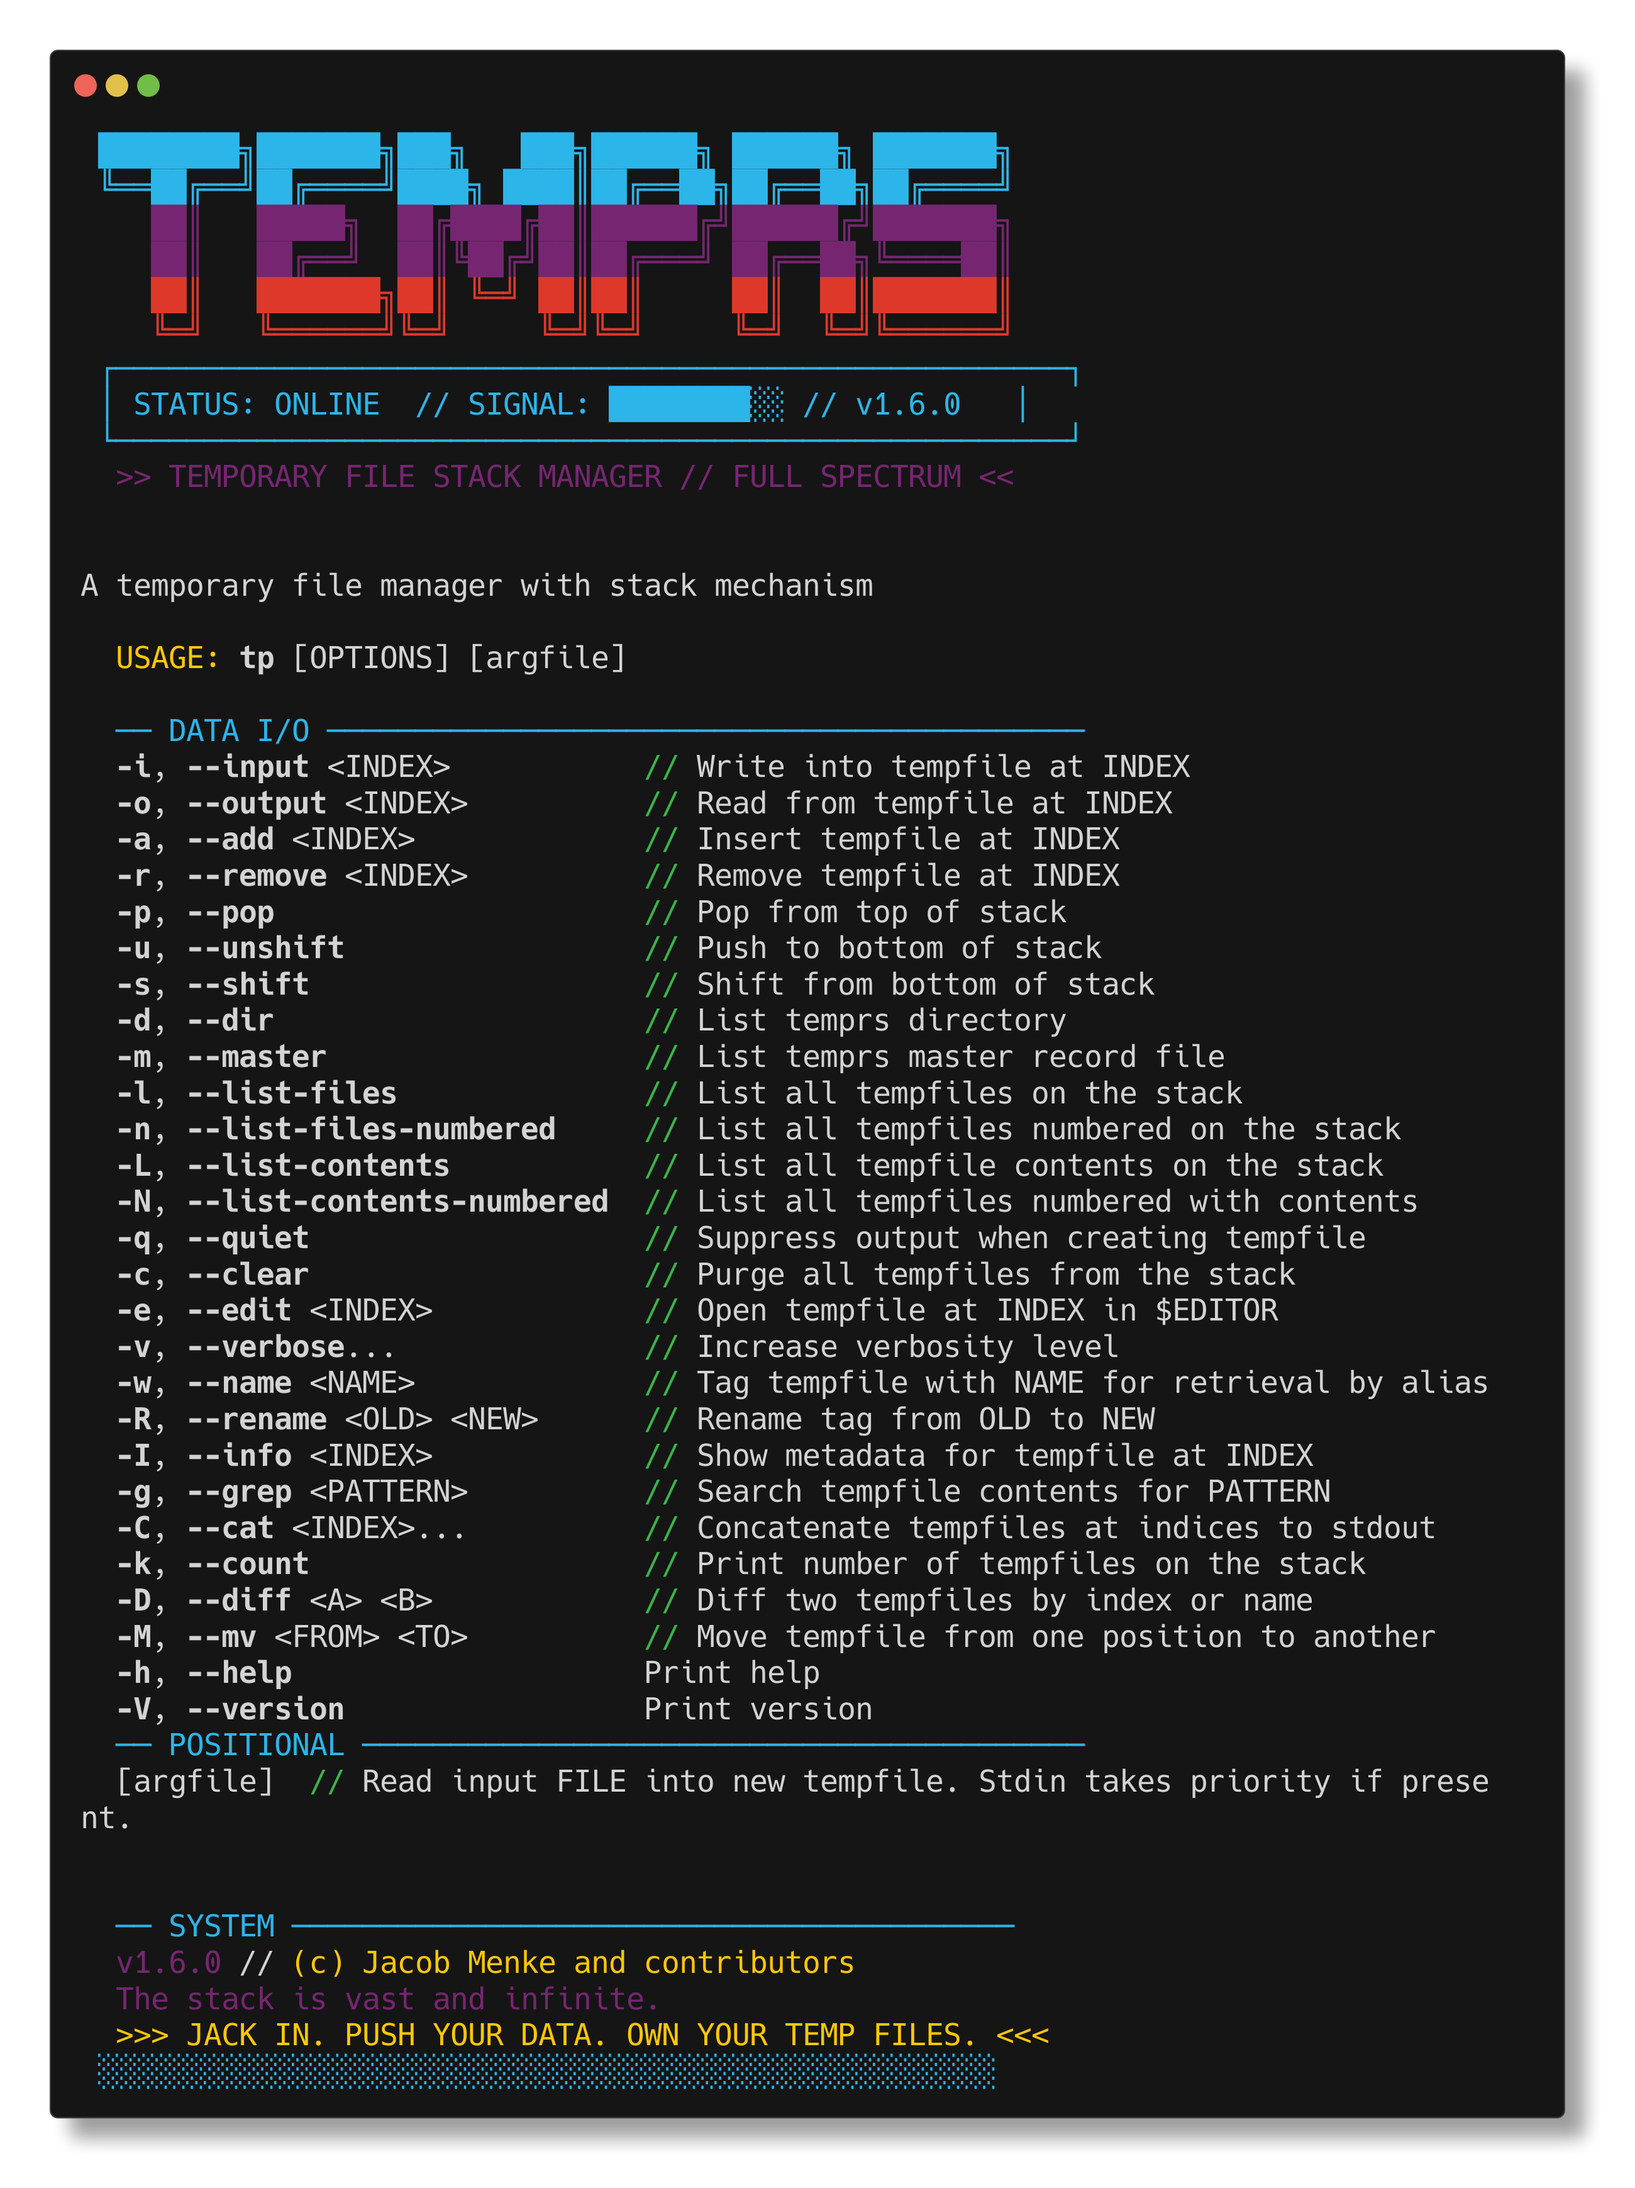
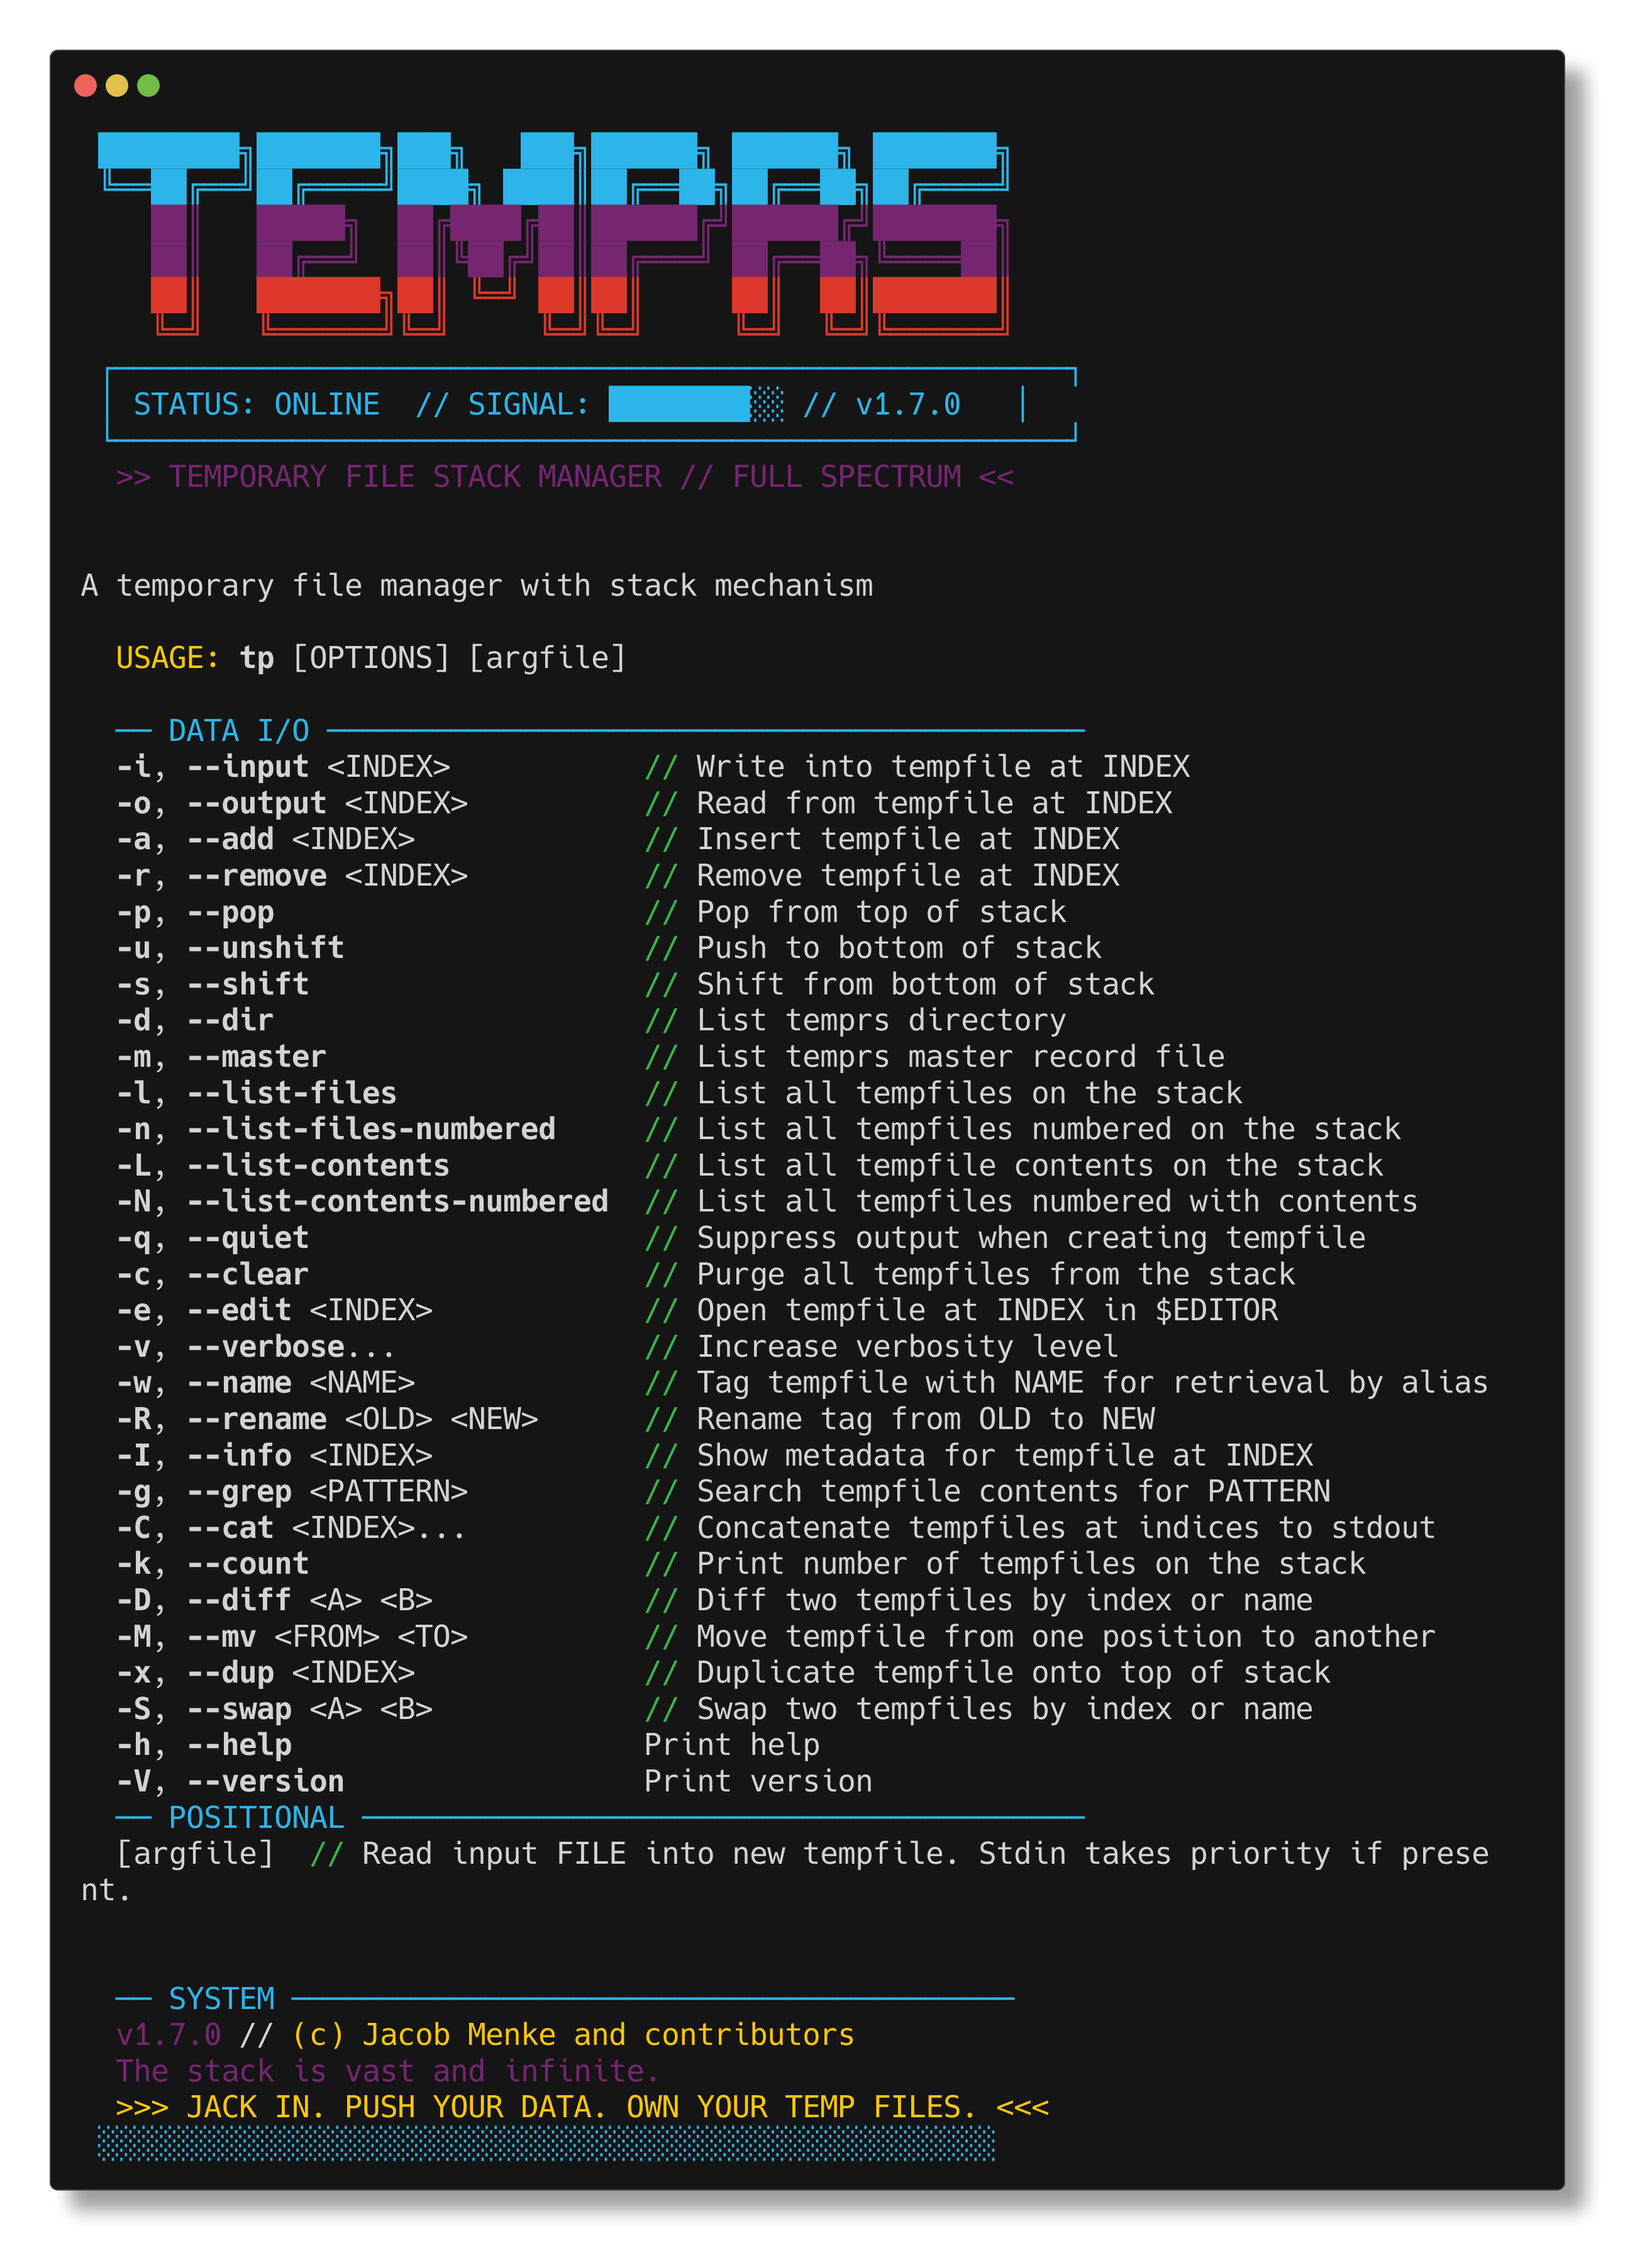
add dup (-x) and swap (-S), integration tests, bump version to 1.7.0

diff --git a/tests/integration.rs b/tests/integration.rs
@@ -89,7 +89,7 @@ fn help_shows_all_flags() {
         "--input", "--output", "--add", "--remove", "--pop", "--unshift",
         "--shift", "--dir", "--master", "--list-files", "--list-files-numbered",
         "--list-contents", "--list-contents-numbered", "--quiet", "--clear",
-        "--verbose", "--edit", "--name", "--rename", "--info", "--grep", "--cat", "--count", "--diff", "--mv",
+        "--verbose", "--edit", "--name", "--rename", "--info", "--grep", "--cat", "--count", "--diff", "--mv", "--dup", "--swap",
     ] {
         assert!(text.contains(flag), "missing flag: {}", flag);
     }
@@ -2205,4 +2205,129 @@ fn move_middle_to_first() {
     assert_eq!(stdout(&run_tp(&dir, &["-o", "1"])), "BBB");
     assert_eq!(stdout(&run_tp(&dir, &["-o", "2"])), "AAA");
     assert_eq!(stdout(&run_tp(&dir, &["-o", "3"])), "CCC");
+}
+
+// ── Dup (duplicate) ────────────────────────────────────
+
+#[test]
+fn dup_by_index() {
+    let dir = setup_clean_env();
+    run_tp_stdin(&dir, &[], "original");
+    let out = run_tp(&dir, &["-x", "1"]);
+    assert!(out.status.success());
+    let count = run_tp(&dir, &["-k"]);
+    assert_eq!(stdout(&count).trim(), "2");
+    assert_eq!(stdout(&run_tp(&dir, &["-o", "1"])), "original");
+    assert_eq!(stdout(&run_tp(&dir, &["-o", "2"])), "original");
+}
+
+#[test]
+fn dup_by_name() {
+    let dir = setup_clean_env();
+    run_tp_stdin(&dir, &["-w", "src"], "data");
+    let out = run_tp(&dir, &["-x", "src"]);
+    assert!(out.status.success());
+    assert_eq!(stdout(&run_tp(&dir, &["-o", "2"])), "data");
+}
+
+#[test]
+fn dup_does_not_copy_name() {
+    let dir = setup_clean_env();
+    run_tp_stdin(&dir, &["-w", "unique"], "data");
+    run_tp(&dir, &["-x", "unique"]);
+    // original name still works
+    assert_eq!(stdout(&run_tp(&dir, &["-o", "unique"])), "data");
+    // clone is at index 2 without a name
+    let list = run_tp(&dir, &["-n"]);
+    let text = stdout(&list);
+    let lines: Vec<&str> = text.lines().filter(|l| l.contains("@unique")).collect();
+    assert_eq!(lines.len(), 1, "name should not be duplicated");
+}
+
+#[test]
+fn dup_invalid_index_fails() {
+    let dir = setup_clean_env();
+    run_tp_stdin(&dir, &[], "data");
+    let out = run_tp(&dir, &["-x", "99"]);
+    assert!(!out.status.success());
+}
+
+#[test]
+fn dup_negative_index() {
+    let dir = setup_clean_env();
+    run_tp_stdin(&dir, &[], "first");
+    tick();
+    run_tp_stdin(&dir, &[], "last");
+    run_tp(&dir, &["-x", "-1"]);
+    assert_eq!(stdout(&run_tp(&dir, &["-o", "3"])), "last");
+}
+
+// ── Swap ───────────────────────────────────────────────
+
+#[test]
+fn swap_by_index() {
+    let dir = setup_clean_env();
+    run_tp_stdin(&dir, &[], "AAA");
+    tick();
+    run_tp_stdin(&dir, &[], "BBB");
+    tick();
+    run_tp_stdin(&dir, &[], "CCC");
+    let out = run_tp(&dir, &["-S", "1", "3"]);
+    assert!(out.status.success());
+    assert_eq!(stdout(&run_tp(&dir, &["-o", "1"])), "CCC");
+    assert_eq!(stdout(&run_tp(&dir, &["-o", "2"])), "BBB");
+    assert_eq!(stdout(&run_tp(&dir, &["-o", "3"])), "AAA");
+}
+
+#[test]
+fn swap_by_name() {
+    let dir = setup_clean_env();
+    run_tp_stdin(&dir, &["-w", "x"], "XX");
+    tick();
+    run_tp_stdin(&dir, &["-w", "y"], "YY");
+    run_tp(&dir, &["-S", "x", "y"]);
+    assert_eq!(stdout(&run_tp(&dir, &["-o", "1"])), "YY");
+    assert_eq!(stdout(&run_tp(&dir, &["-o", "2"])), "XX");
+}
+
+#[test]
+fn swap_preserves_names() {
+    let dir = setup_clean_env();
+    run_tp_stdin(&dir, &["-w", "a"], "AA");
+    tick();
+    run_tp_stdin(&dir, &["-w", "b"], "BB");
+    run_tp(&dir, &["-S", "1", "2"]);
+    // names follow files
+    assert_eq!(stdout(&run_tp(&dir, &["-o", "a"])), "AA");
+    assert_eq!(stdout(&run_tp(&dir, &["-o", "b"])), "BB");
+}
+
+#[test]
+fn swap_same_index_is_noop() {
+    let dir = setup_clean_env();
+    run_tp_stdin(&dir, &[], "AAA");
+    tick();
+    run_tp_stdin(&dir, &[], "BBB");
+    run_tp(&dir, &["-S", "1", "1"]);
+    assert_eq!(stdout(&run_tp(&dir, &["-o", "1"])), "AAA");
+    assert_eq!(stdout(&run_tp(&dir, &["-o", "2"])), "BBB");
+}
+
+#[test]
+fn swap_invalid_index_fails() {
+    let dir = setup_clean_env();
+    run_tp_stdin(&dir, &[], "data");
+    let out = run_tp(&dir, &["-S", "1", "99"]);
+    assert!(!out.status.success());
+}
+
+#[test]
+fn swap_mixed_name_and_index() {
+    let dir = setup_clean_env();
+    run_tp_stdin(&dir, &["-w", "named"], "NN");
+    tick();
+    run_tp_stdin(&dir, &[], "UU");
+    run_tp(&dir, &["-S", "named", "2"]);
+    assert_eq!(stdout(&run_tp(&dir, &["-o", "1"])), "UU");
+    assert_eq!(stdout(&run_tp(&dir, &["-o", "2"])), "NN");
 }

diff --git a/src/util/consts.rs b/src/util/consts.rs
@@ -40,6 +40,8 @@ pub const CAT: &str = "cat";
 pub const COUNT: &str = "count";
 pub const DIFF: &str = "diff";
 pub const MOVE: &str = "move";
+pub const DUP: &str = "dup";
+pub const SWAP: &str = "swap";
 pub const ERR_INVALID_NAME: &str = "Invalid or duplicate name";
 pub const ERR_EDITOR: &str = "Could not open editor";
 
@@ -124,7 +126,7 @@ mod tests {
         let flags = vec![
             DIRECTORY, INPUT, OUTPUT, ADD, REMOVE, POP, UNSHIFT,
             ARGFILE, MASTER, VERBOSE, LIST_FILES, LIST_FILES_NUMBERED,
-            LIST_CONTENTS, LIST_CONTENTS_NUMBERED, CLEAR, SHIFT, SILENT, EDIT, TAG, RENAME, INFO, GREP, CAT, COUNT, DIFF, MOVE,
+            LIST_CONTENTS, LIST_CONTENTS_NUMBERED, CLEAR, SHIFT, SILENT, EDIT, TAG, RENAME, INFO, GREP, CAT, COUNT, DIFF, MOVE, DUP, SWAP,
         ];
         let mut sorted = flags.clone();
         sorted.sort();
@@ -137,7 +139,7 @@ mod tests {
         let flags = vec![
             DIRECTORY, INPUT, OUTPUT, ADD, REMOVE, POP, UNSHIFT,
             ARGFILE, MASTER, VERBOSE, LIST_FILES, LIST_FILES_NUMBERED,
-            LIST_CONTENTS, LIST_CONTENTS_NUMBERED, CLEAR, SHIFT, SILENT, EDIT, TAG, RENAME, INFO, GREP, CAT, COUNT, DIFF, MOVE,
+            LIST_CONTENTS, LIST_CONTENTS_NUMBERED, CLEAR, SHIFT, SILENT, EDIT, TAG, RENAME, INFO, GREP, CAT, COUNT, DIFF, MOVE, DUP, SWAP,
         ];
         for f in flags {
             assert_eq!(f, f.to_lowercase(), "flag '{}' should be lowercase", f);
@@ -356,7 +358,7 @@ mod tests {
         let flags = vec![
             DIRECTORY, INPUT, OUTPUT, ADD, REMOVE, POP, UNSHIFT,
             ARGFILE, MASTER, VERBOSE, LIST_FILES, LIST_FILES_NUMBERED,
-            LIST_CONTENTS, LIST_CONTENTS_NUMBERED, CLEAR, SHIFT, SILENT, EDIT, TAG, RENAME, INFO, GREP, CAT, COUNT, DIFF, MOVE,
+            LIST_CONTENTS, LIST_CONTENTS_NUMBERED, CLEAR, SHIFT, SILENT, EDIT, TAG, RENAME, INFO, GREP, CAT, COUNT, DIFF, MOVE, DUP, SWAP,
         ];
         for f in flags {
             assert!(!f.contains(' '), "flag '{}' should not contain spaces", f);
@@ -370,7 +372,7 @@ mod tests {
         let flags = vec![
             DIRECTORY, INPUT, OUTPUT, ADD, REMOVE, POP, UNSHIFT,
             ARGFILE, MASTER, VERBOSE, LIST_FILES, LIST_FILES_NUMBERED,
-            LIST_CONTENTS, LIST_CONTENTS_NUMBERED, CLEAR, SHIFT, SILENT, EDIT, TAG, RENAME, INFO, GREP, CAT, COUNT, DIFF, MOVE,
+            LIST_CONTENTS, LIST_CONTENTS_NUMBERED, CLEAR, SHIFT, SILENT, EDIT, TAG, RENAME, INFO, GREP, CAT, COUNT, DIFF, MOVE, DUP, SWAP,
         ];
         for f in flags {
             assert!(!f.is_empty(), "flag constant should not be empty");
@@ -384,7 +386,7 @@ mod tests {
         let flags = vec![
             DIRECTORY, INPUT, OUTPUT, ADD, REMOVE, POP, UNSHIFT,
             ARGFILE, MASTER, VERBOSE, LIST_FILES, LIST_FILES_NUMBERED,
-            LIST_CONTENTS, LIST_CONTENTS_NUMBERED, CLEAR, SHIFT, SILENT, EDIT, TAG, RENAME, INFO, GREP, CAT, COUNT, DIFF, MOVE,
+            LIST_CONTENTS, LIST_CONTENTS_NUMBERED, CLEAR, SHIFT, SILENT, EDIT, TAG, RENAME, INFO, GREP, CAT, COUNT, DIFF, MOVE, DUP, SWAP,
         ];
         for f in flags {
             assert!(f.is_ascii(), "flag '{}' should be ASCII", f);
@@ -398,9 +400,9 @@ mod tests {
         let flags = vec![
             DIRECTORY, INPUT, OUTPUT, ADD, REMOVE, POP, UNSHIFT,
             ARGFILE, MASTER, VERBOSE, LIST_FILES, LIST_FILES_NUMBERED,
-            LIST_CONTENTS, LIST_CONTENTS_NUMBERED, CLEAR, SHIFT, SILENT, EDIT, TAG, RENAME, INFO, GREP, CAT, COUNT, DIFF, MOVE,
+            LIST_CONTENTS, LIST_CONTENTS_NUMBERED, CLEAR, SHIFT, SILENT, EDIT, TAG, RENAME, INFO, GREP, CAT, COUNT, DIFF, MOVE, DUP, SWAP,
         ];
-        assert_eq!(flags.len(), 26);
+        assert_eq!(flags.len(), 28);
     }
 
     // ── naming conventions ──────────────────────────────

diff --git a/src/model/app.rs b/src/model/app.rs
@@ -364,6 +364,13 @@ impl TempApp {
             let v: Vec<String> = vals.cloned().collect();
             self.move_tempfile(v[0].clone(), v[1].clone());
         }
+        if let Some(f) = matches.get_one::<String>(DUP) {
+            self.dup_tempfile(f.clone());
+        }
+        if let Some(vals) = matches.get_many::<String>(SWAP) {
+            let v: Vec<String> = vals.cloned().collect();
+            self.swap_tempfiles(v[0].clone(), v[1].clone());
+        }
         if let Some(vals) = matches.get_many::<String>(RENAME) {
             let v: Vec<String> = vals.cloned().collect();
             self.rename_tag(v[0].clone(), v[1].clone());
@@ -467,6 +474,36 @@ impl TempApp {
         ) {
             util_terminate_error(ERR_NO_FILE);
         }
+        exit(0)
+    }
+
+    fn dup_tempfile(&mut self, stk_idx: String) {
+        match self.resolve_idx(&stk_idx) {
+            Some(idx) => {
+                let src = self.state().temp_file_stack()[idx].clone();
+                let content = util_file_contents_to_string(src.as_path()).expect(ERR_FILE_READ);
+                self.append_to_master_list();
+                util_overwrite_file(self.state().new_temp_file(), &content);
+                exit(0)
+            }
+            None => util_terminate_error(ERR_INVALID_IDX),
+        }
+    }
+
+    fn swap_tempfiles(&mut self, a: String, b: String) {
+        let idx_a = match self.resolve_idx(&a) {
+            Some(idx) => idx,
+            None => { util_terminate_error(ERR_INVALID_IDX); unreachable!() }
+        };
+        let idx_b = match self.resolve_idx(&b) {
+            Some(idx) => idx,
+            None => { util_terminate_error(ERR_INVALID_IDX); unreachable!() }
+        };
+        let mut paths = self.state().temp_file_stack().clone();
+        let mut names = self.state().temp_file_names().clone();
+        paths.swap(idx_a, idx_b);
+        names.swap(idx_a, idx_b);
+        util_paths_and_names_to_file(paths, &names, self.state().master_record_file());
         exit(0)
     }
 

diff --git a/src/model/opts.rs b/src/model/opts.rs
@@ -182,6 +182,19 @@ pub fn parse_opts() -> Command {
             .num_args(2)
             .allow_hyphen_values(true)
             .help("\x1b[32m//\x1b[0m Move tempfile from one position to another"))
+        .arg(Arg::new(DUP)
+            .short('x')
+            .long("dup")
+            .value_name("INDEX")
+            .allow_hyphen_values(true)
+            .help("\x1b[32m//\x1b[0m Duplicate tempfile onto top of stack"))
+        .arg(Arg::new(SWAP)
+            .short('S')
+            .long("swap")
+            .value_names(["A", "B"])
+            .num_args(2)
+            .allow_hyphen_values(true)
+            .help("\x1b[32m//\x1b[0m Swap two tempfiles by index or name"))
 }
 
 #[cfg(test)]
@@ -587,7 +600,7 @@ mod tests {
         let custom_count = app.get_arguments()
             .filter(|a| a.get_id() != "help" && a.get_id() != "version")
             .count();
-        assert_eq!(custom_count, 26);
+        assert_eq!(custom_count, 28);
     }
 
     // ── flag mutual independence ────────────────────────

diff --git a/README.md b/README.md
@@ -260,6 +260,14 @@ tp -M 1 3
 
 # move by name
 tp -M mydata 1
+
+# duplicate tempfile onto top of stack
+tp -x INDEX
+tp -x mydata
+
+# swap two tempfiles
+tp -S 1 3
+tp -S alpha beta
 ```
 
 ---
